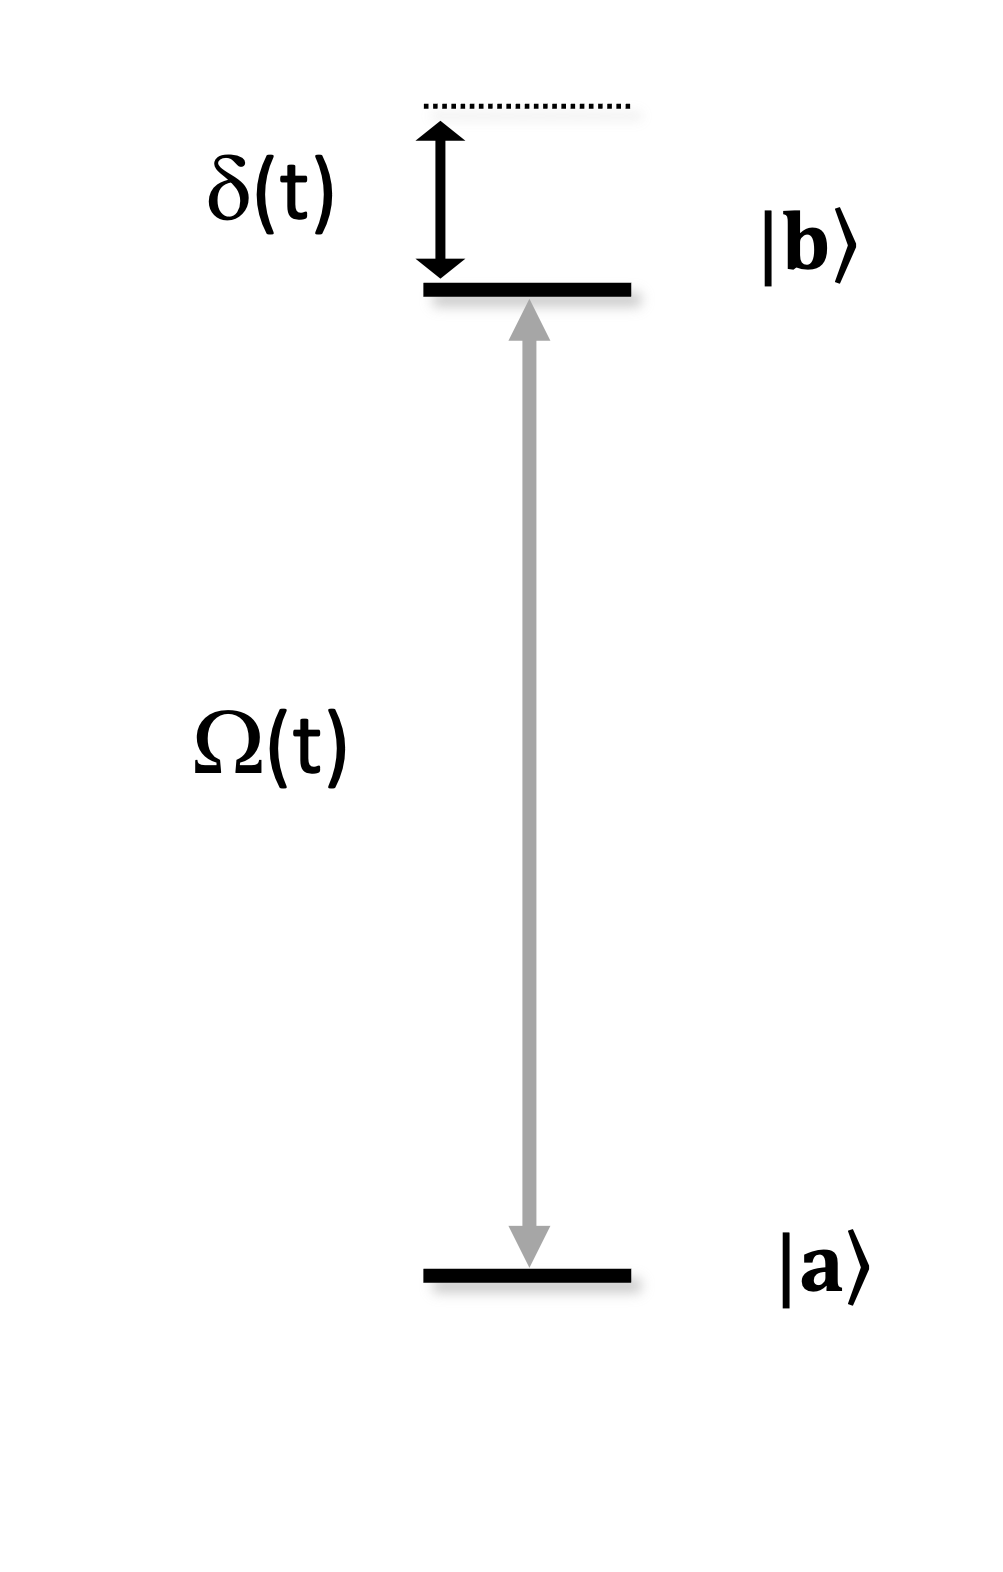
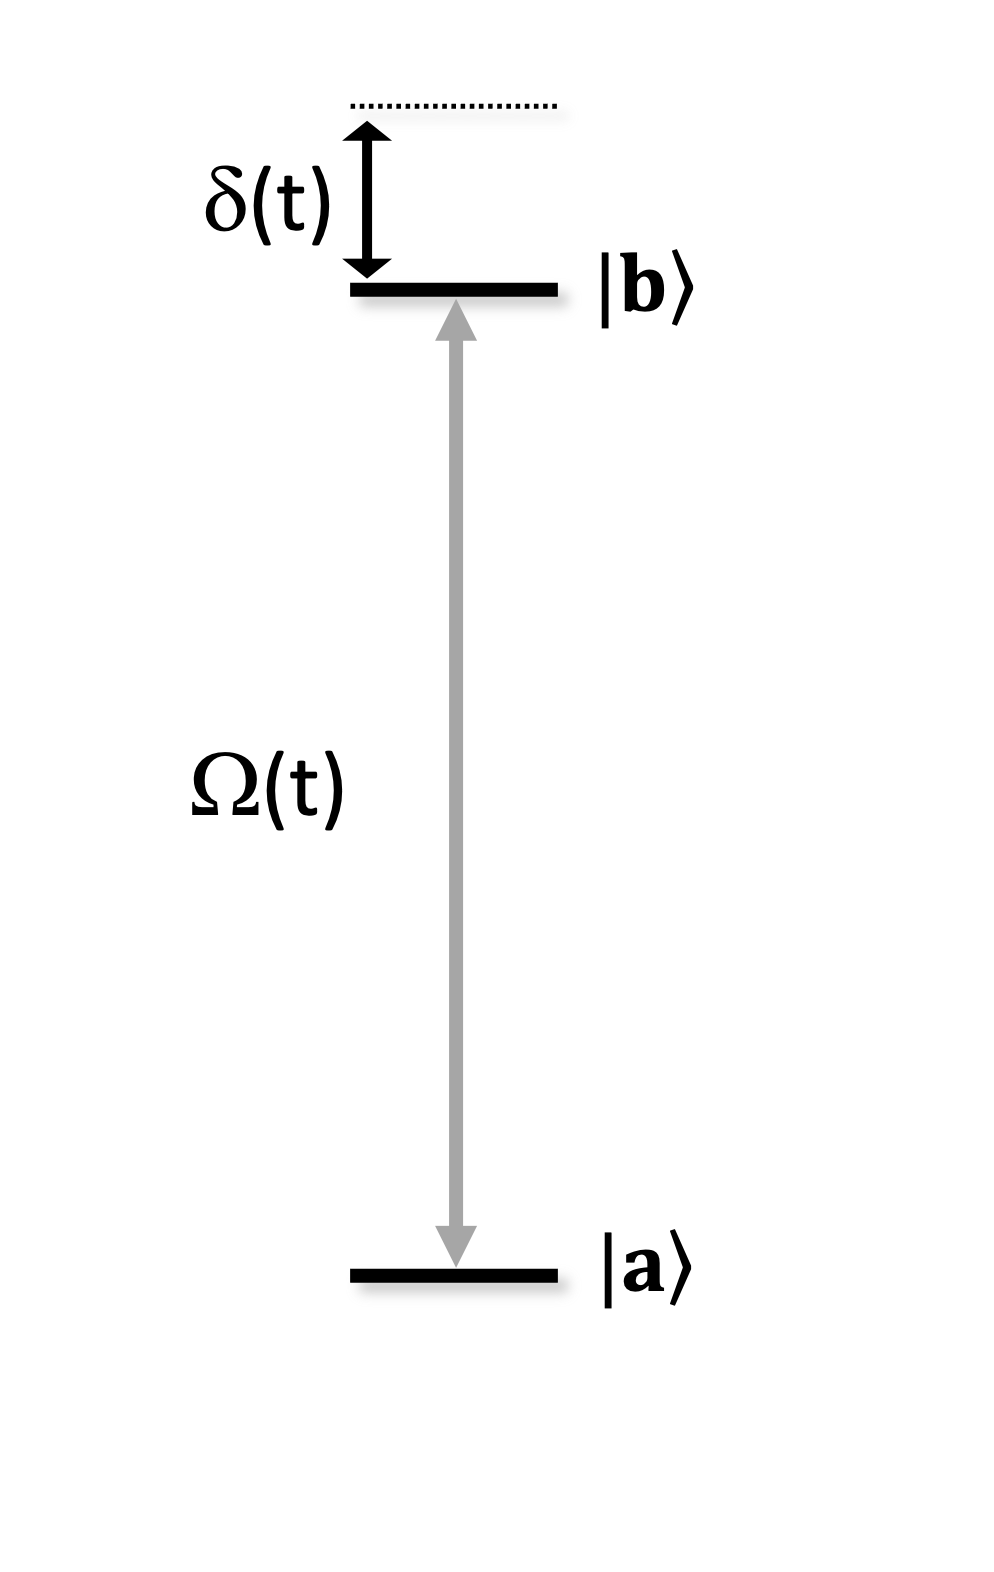
Add caption and change the warning position

diff --git a/docs/source/conventions.rst b/docs/source/conventions.rst
@@ -139,17 +139,19 @@ The driving Hamiltonian describes the coherent excitation of an individual atom
 between two energies levels, :math:`|a\rangle` and :math:`|b\rangle`, with
 Rabi frequency :math:`\Omega(t)`, detuning :math:`\delta(t)` and phase :math:`\phi(t)`.
 
-.. math:: H^D(t) / \hbar = \frac{\Omega(t)}{2} e^{-i\phi(t)} |a\rangle\langle b| + \frac{\Omega(t)}{2} e^{i\phi(t)} |b\rangle\langle a| - \delta(t) |b\rangle\langle b|
-
-.. image:: files/two_level_ab.png
+.. figure:: files/two_level_ab.png
   :align: center
   :width: 200
   :alt: The energy levels for the driving Hamiltonian.
+
+  The coherent excitation is driven between a lower energy level, :math:`|a\rangle`, and a higher energy level,
+  :math:`|b\rangle`, with Rabi frequency :math:`\Omega(t)` and detuning :math:`\delta(t)`.
 
 .. warning::
   In this form, the Hamiltonian is **independent of the state vector representation of each basis state**,
   but it still assumes that :math:`|b\rangle` **has a higher energy than** :math:`|a\rangle`.
 
+.. math:: H^D(t) / \hbar = \frac{\Omega(t)}{2} e^{-i\phi(t)} |a\rangle\langle b| + \frac{\Omega(t)}{2} e^{i\phi(t)} |b\rangle\langle a| - \delta(t) |b\rangle\langle b|
 
 Pauli matrix form
 ---------------------
